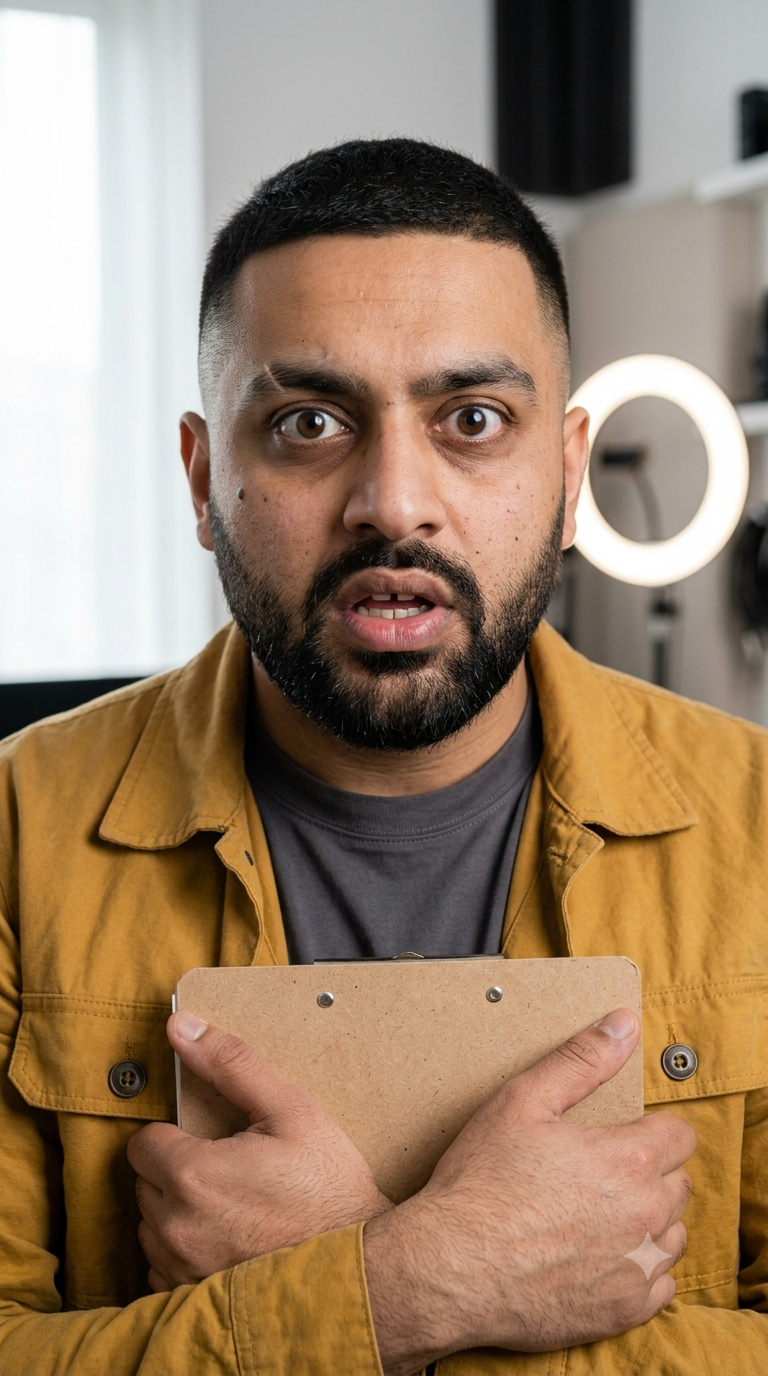
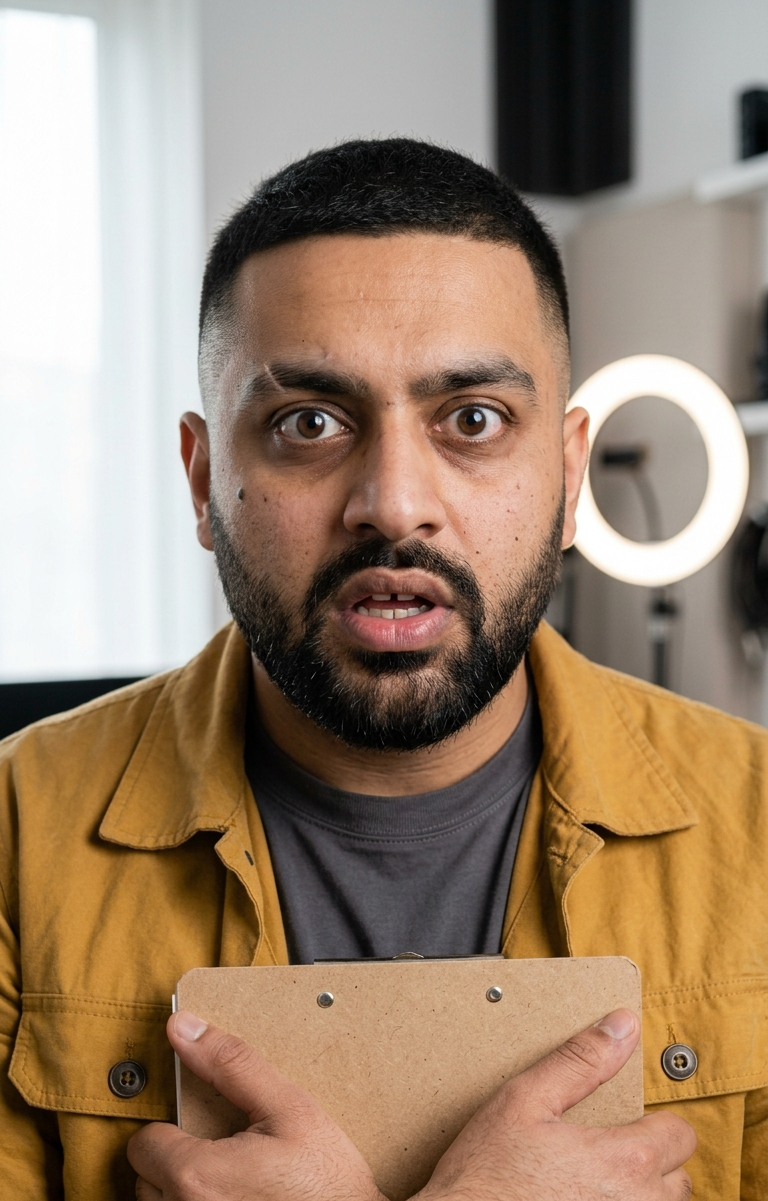
Remove Gemini watermark from Mo anchors; add two-shot lessons
Watermarked references caused Gemini to print the sparkle onto clothing.
Document height compression and eye-colour bleed seen in the second shoot.

Claude-Session: https://claude.ai/code/session_01XL9LVYsFrUjbg5A9dxmxi1

diff --git a/characters/GEMINI.md b/characters/GEMINI.md
@@ -83,9 +83,11 @@ the frame size of the last image".
   "Keep everything in this image exactly the same. Only adjust the face of the
   man on the left so it matches image 1."
 - **Watermark:** Gemini images carry an invisible SynthID mark, and on some
-  plans a small visible sparkle in the bottom-right corner. **Crop it off every
-  still before animating.** If you don't, Veo bakes it into every frame of the
-  clip, and it can't be removed afterwards (this happened in the first test).
+  plans a small visible sparkle in the bottom-right corner. **Remove it from
+  every image before you attach it as a reference or animate it.** Gemini
+  copies a watermark from a reference into the new image (in the second shoot
+  it printed the sparkle onto Lanky's jacket as a logo), and Veo bakes it into
+  every frame of a clip, where it can't be removed afterwards.
 - **Mirrored marks:** Gemini sometimes flips a mark to the other side (it
   flipped Lanky's neck mole in the first shoot). Check sides on every image
   and fix with a one-change edit.

diff --git a/characters/CAST.md b/characters/CAST.md
@@ -101,4 +101,12 @@ Tips:
   *"Keep everything in this image exactly the same. Only adjust the face of
   the man on the left so it matches image 1."*
 - If heights come out wrong: *"Keep everything the same. Make the man on the
-  right taller so the top of the left man's head reaches his chin."*
+  right taller so the top of the left man's head reaches his chin."* Gemini
+  tends to shrink the gap (in the second shoot Mo reached Lanky's eyes, which
+  makes Lanky about 182 cm instead of 196 cm). Check it on every standing
+  two-shot.
+- **Feature bleed:** check each man's eye colour, hair and marks against his
+  own bible. In the second shoot Mo came out with Lanky's pale grey-green eyes
+  and lost his eyebrow scar. Fix with *"Keep everything the same. Only change
+  the left man's eyes to dark brown and add a thin pale scar through the outer
+  end of his right eyebrow."*

diff --git a/characters/mo/mo.md b/characters/mo/mo.md
@@ -102,7 +102,9 @@ taken on a full-frame digital camera.
 ## Approval checklist
 
 - [ ] Face matches A1 (broad face, large dark eyes, strong jaw)
-- [ ] Scar through **right** eyebrow, mole low on **right** cheek (left of image when he faces camera)
+- [ ] Eyes **dark brown**. In two-shots Gemini can give him Lanky's pale
+      grey-green eyes; fix with a one-change edit
+- [ ] Scar through **right** eyebrow, mole low on **right** cheek (left of image when he faces camera). The scar is the mark most often dropped in wider shots
 - [ ] Tooth gap visible when his mouth is open
 - [ ] Hair very short with a skin fade, not grown out
 - [ ] Beard full and short, not stubble, not long
